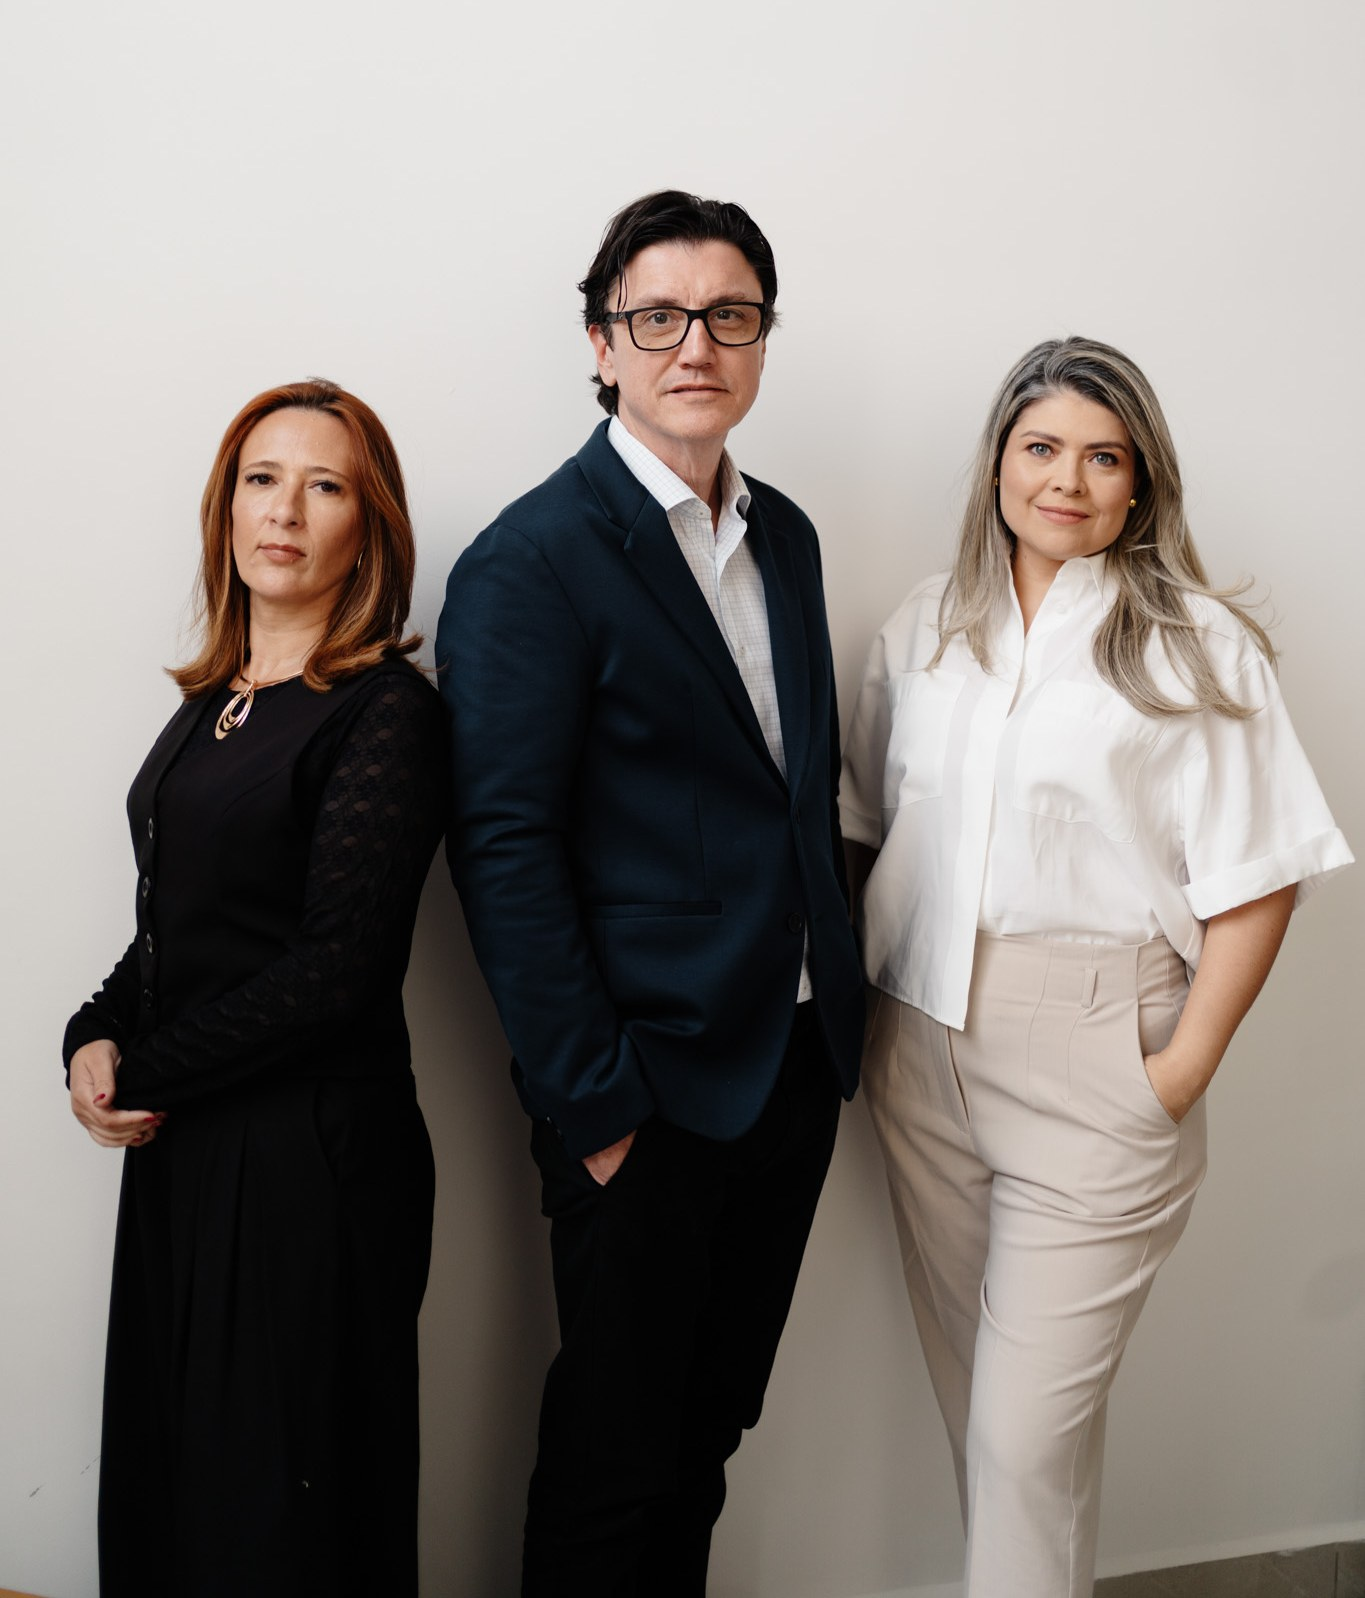
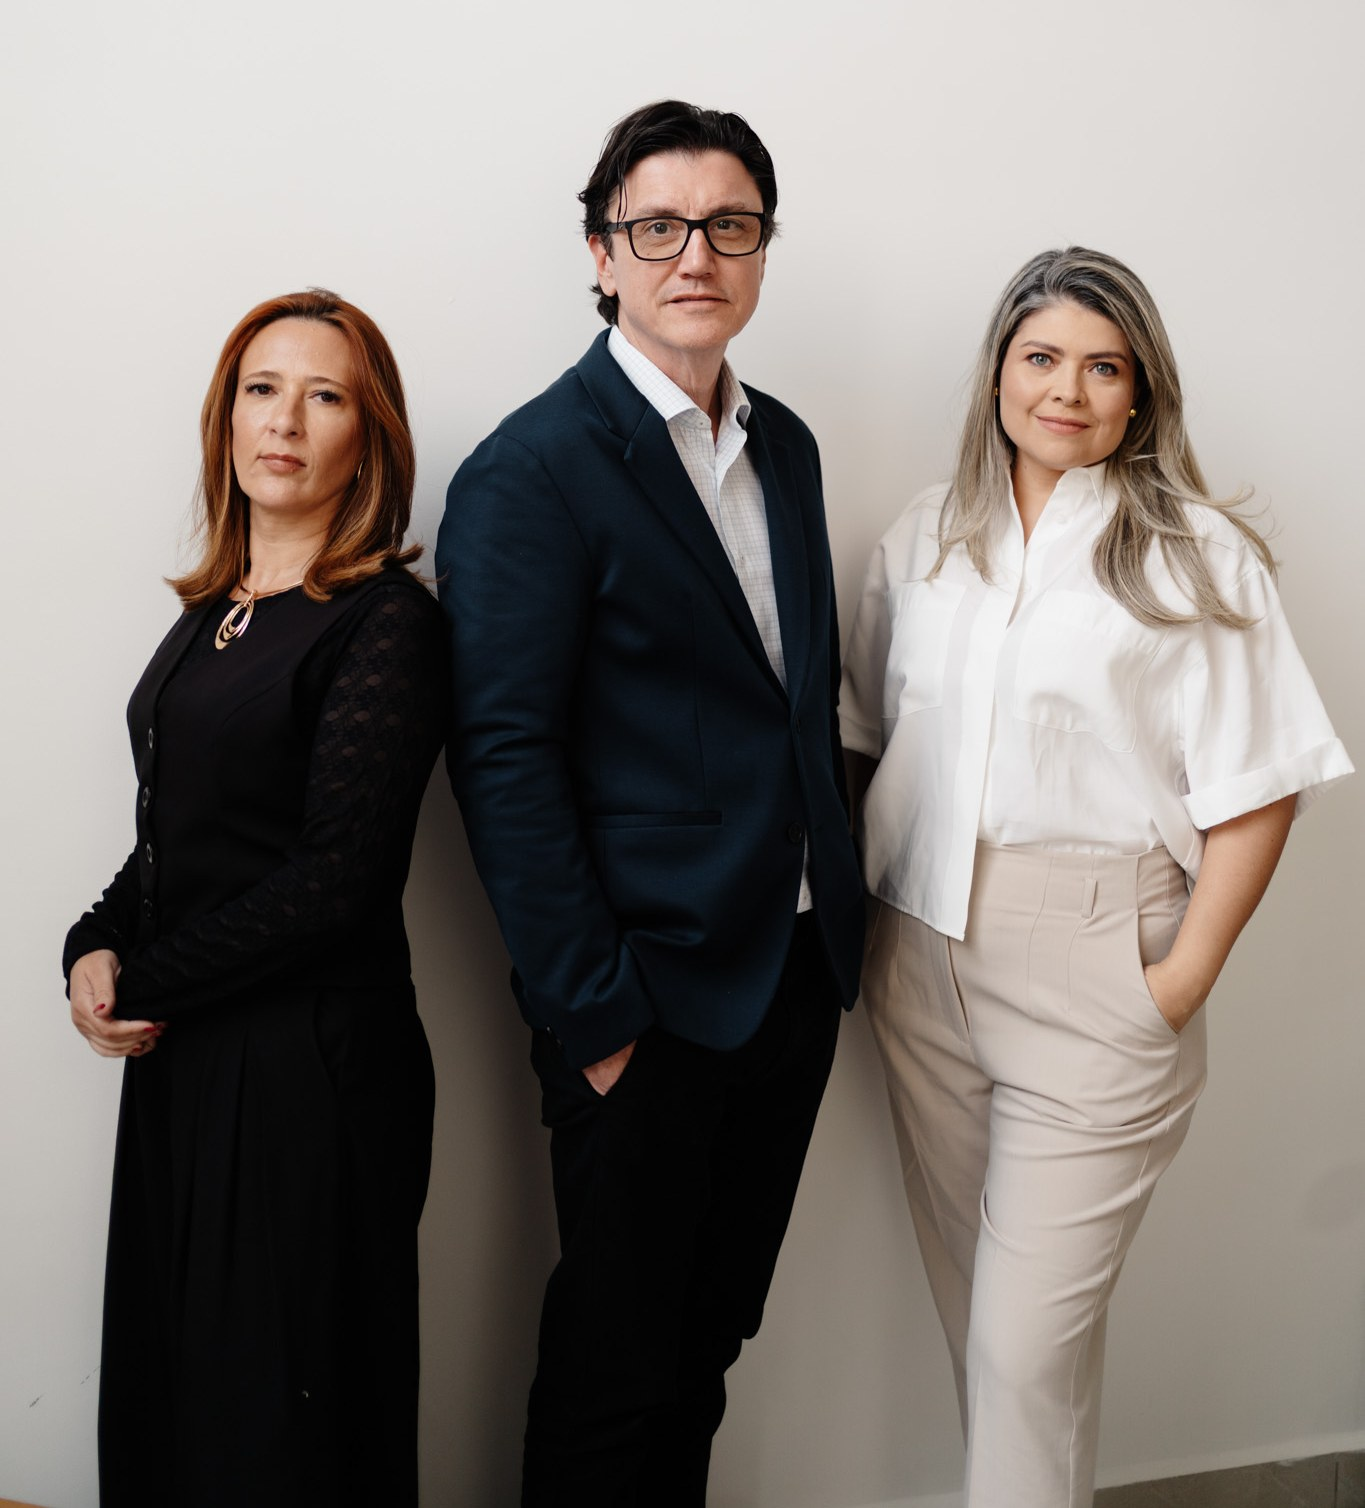
Capa: sobe os rostos no hero (recorte mais alto) desktop + mobile
- Recorta mais o topo da foto p/ elevar os rostos (medico centralizado
  no circulo; texto na linha do ombro da profissional a esquerda)
- Mobile recortado no mesmo criterio
- Cache-bust: equipe-capa v4, equipe-capa-mobile v3

diff --git a/css/app-60.css b/css/app-60.css
@@ -1503,9 +1503,9 @@ button {
   position: relative;
   /* Imagem com o topo (parede vazia) já recortado na origem: o topo da cabeça
      do homem nasce na altura do logo, sem precisar de zoom. */
-  background-image: url("../assets/equipe-capa.jpg?v=3");
+  background-image: url("../assets/equipe-capa.jpg?v=4");
   background-size: cover;
-  background-position: center 18%;
+  background-position: center 35%;
   background-repeat: no-repeat;
 }
 
@@ -2461,7 +2461,7 @@ button {
   .cover-wrap {
     /* imagem mobile com um pouco da parede acima das cabeças (respiro vem da
        própria foto — sem faixa creme no topo) */
-    background-image: url("../assets/equipe-capa-mobile.jpg?v=2");
+    background-image: url("../assets/equipe-capa-mobile.jpg?v=3");
     background-size: 100% auto;       /* largura cheia: os três aparecem */
     background-position: center top;
     background-color: var(--bg-page); /* creme preenche abaixo da foto */
